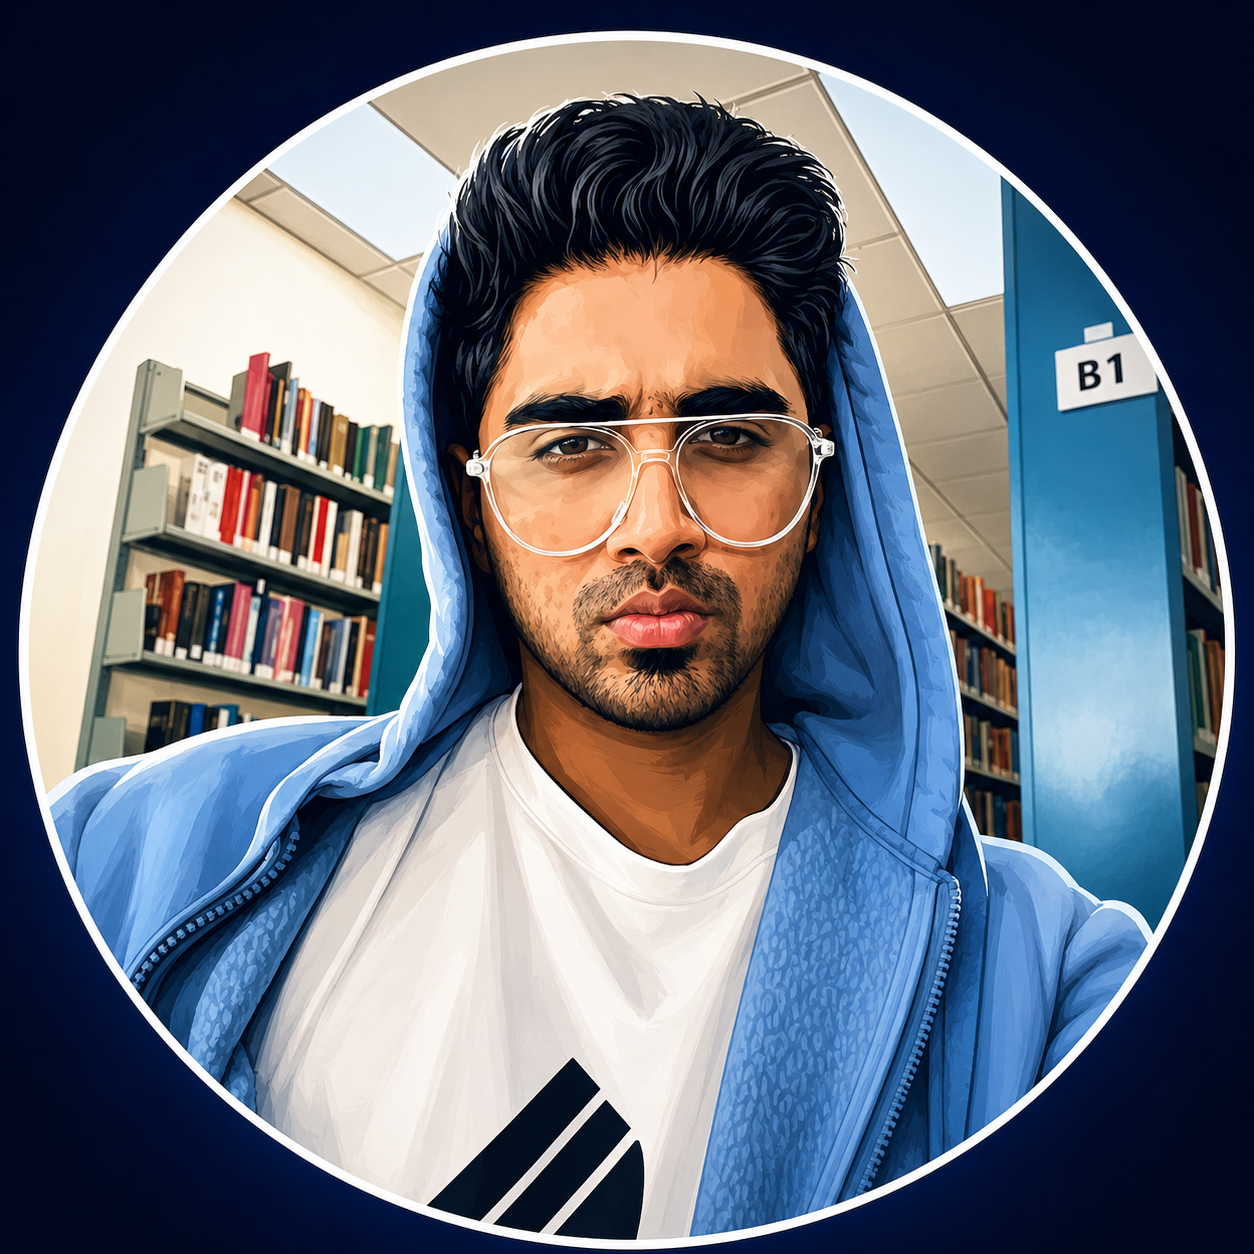
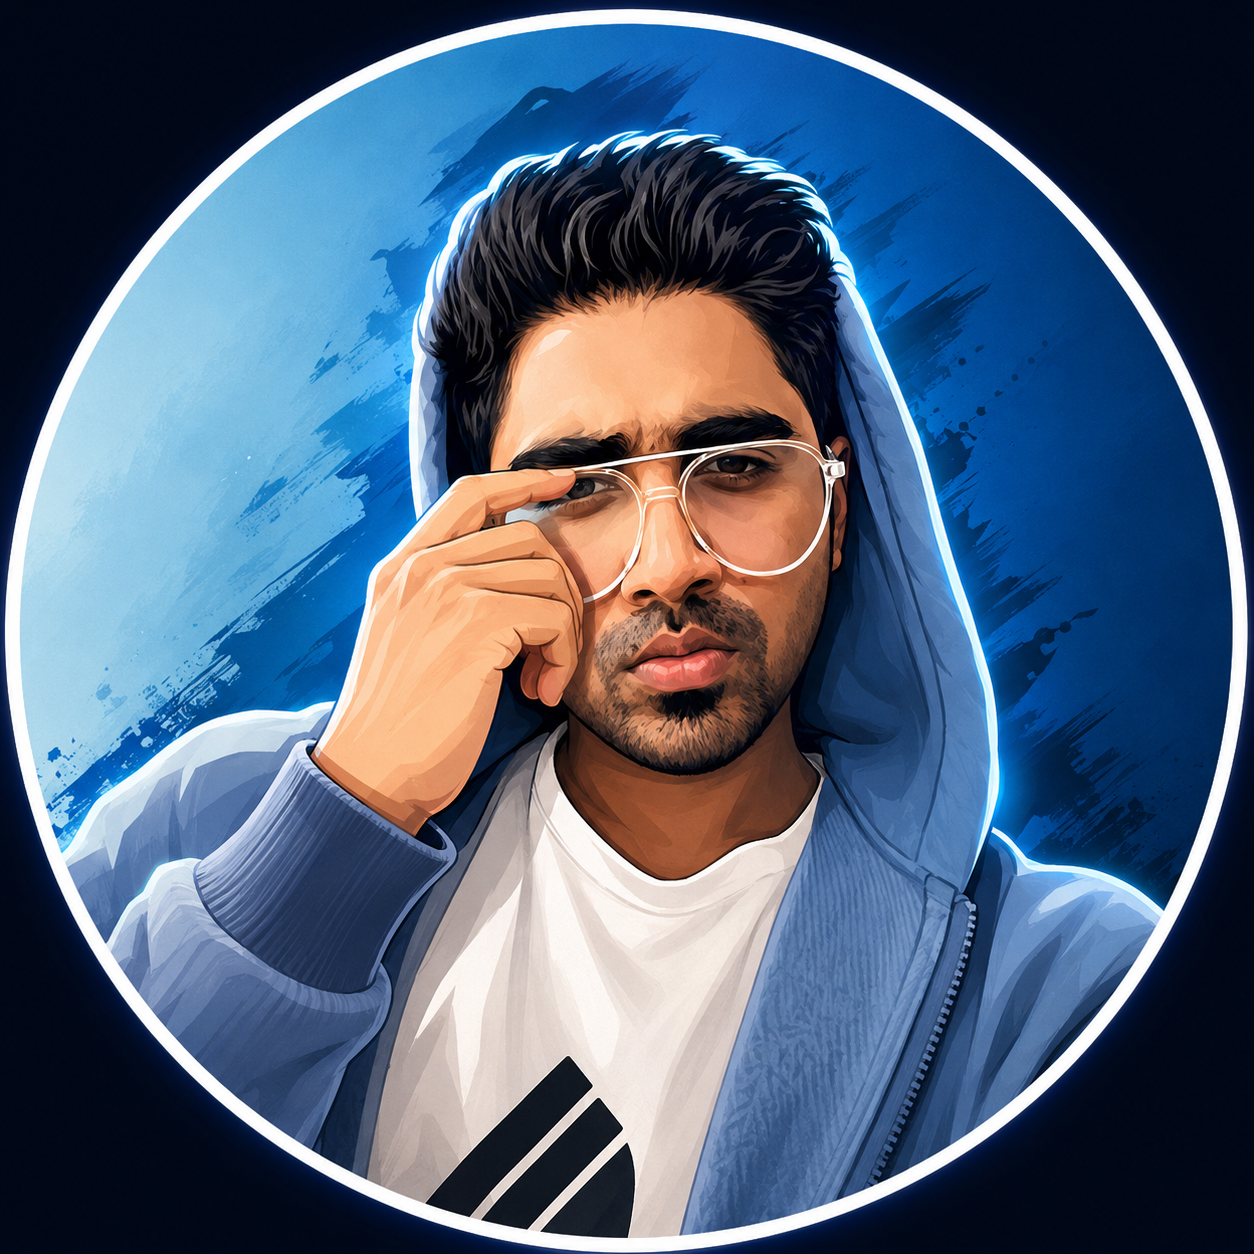
Update portfolio assets and content

diff --git a/index.html b/index.html
@@ -230,7 +230,7 @@
     flex-direction: column;
     gap: 2rem;">
     <img 
-      src="./assets/profile1.png" 
+      src="./assets/profile.png" 
       alt="Profile Picture" 
       style="width: 180px; height: 180px; border-radius: 50%; object-fit: cover; box-shadow: 0 8px 30px rgba(0,0,0,0.4); animation: fadeIn 2s ease forwards;"
     />
